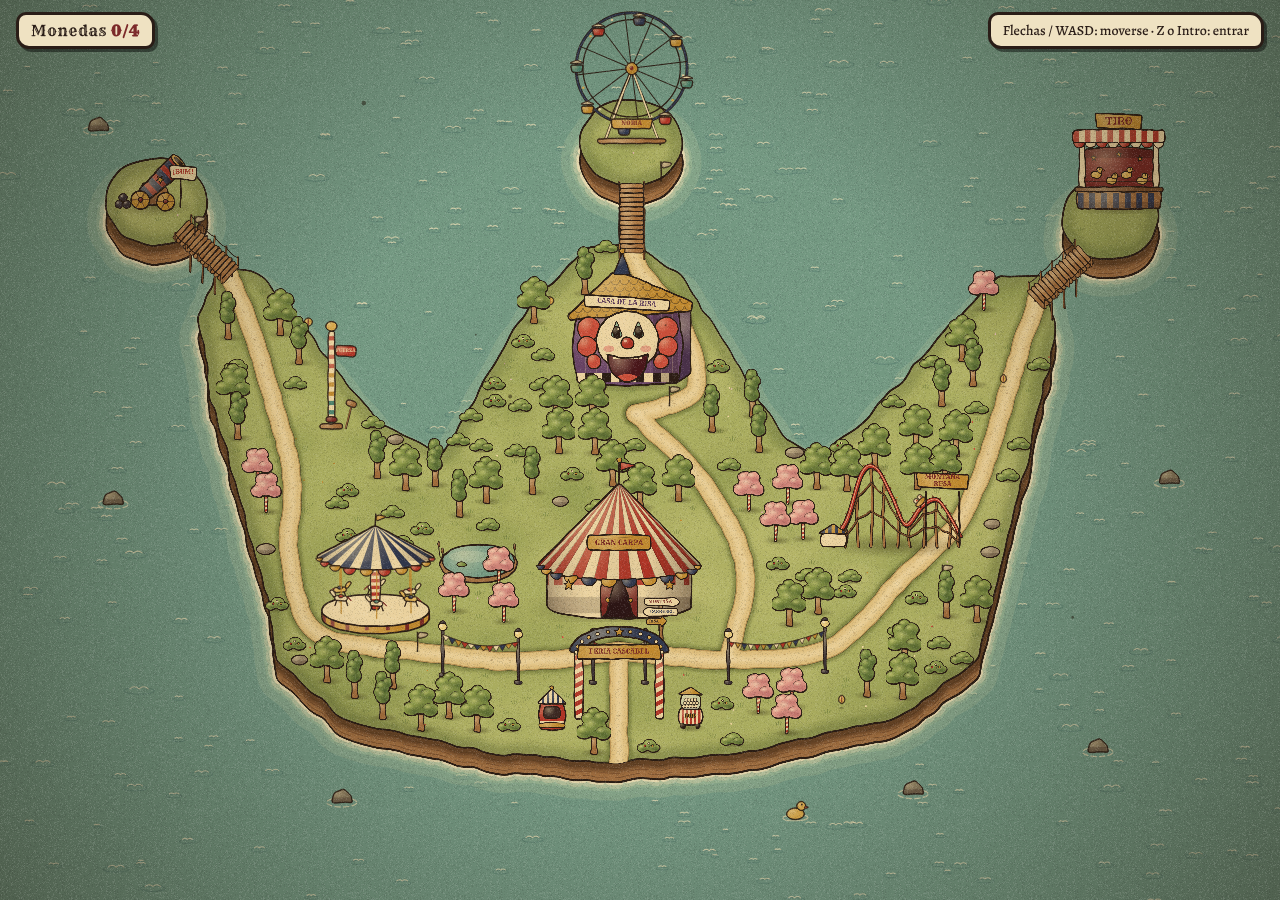
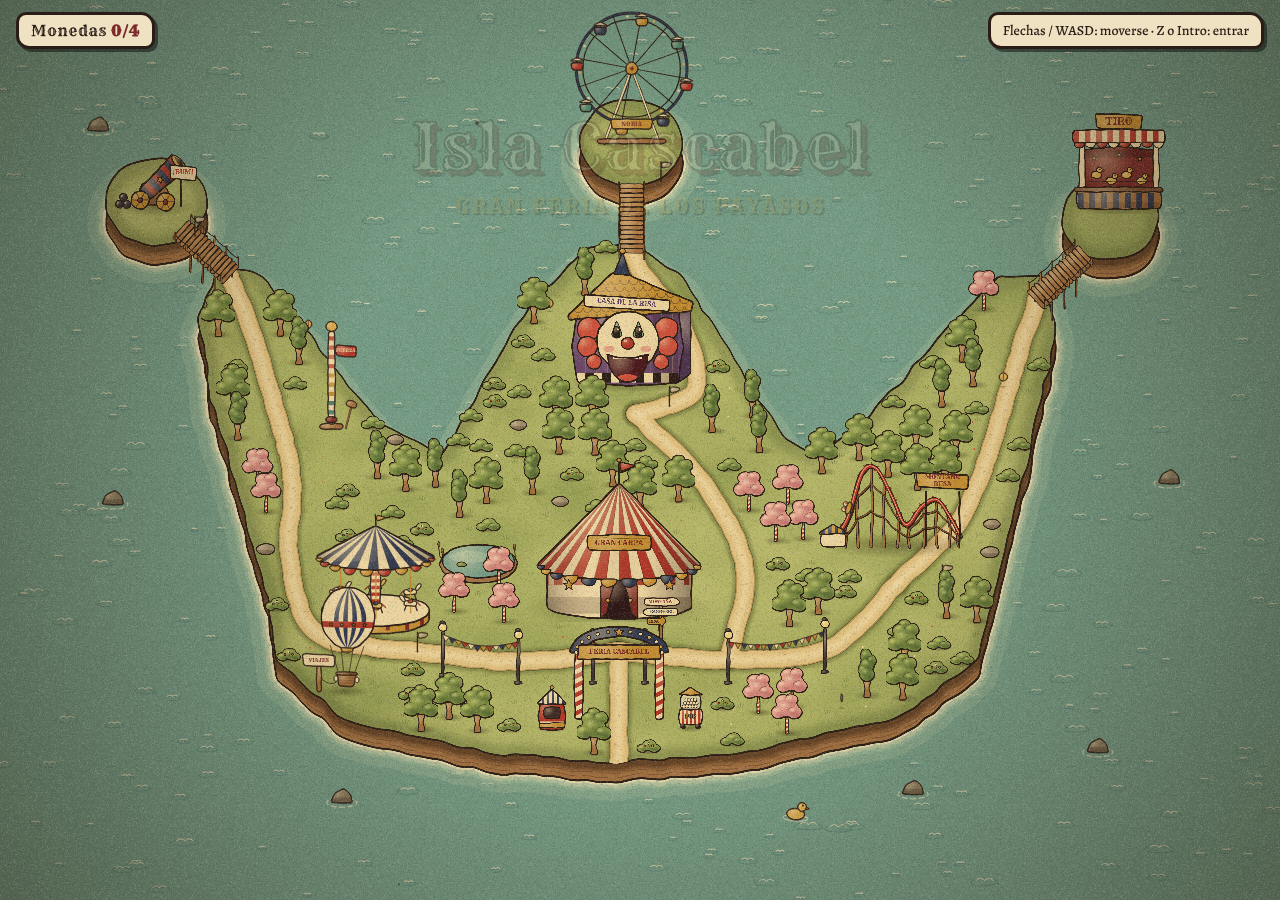
Añadir globo de viajes con selector de mundos y propuesta de mundos y jefes
El globo de la costa suroeste abre un selector con cuatro mundos (feria,
fantasía, siniestro y malvado); los no construidos aparecen cerrados hasta
vencer al jefe del mundo anterior. El documento de diseño recoge la
propuesta de mundos con jefes originales.

Claude-Session: https://claude.ai/code/session_01G1jNJfnqQXrcncKNXHh4Q9

diff --git a/mapa-feria/index.html b/mapa-feria/index.html
@@ -29,6 +29,7 @@ html,body{height:100%;margin:0;overflow:hidden;background:var(--ink);color:var(-
 #banner .b2{font-family:var(--display);font-size:clamp(14px,2.6vw,20px);color:var(--gold);text-shadow:2px 2px 0 var(--ink);letter-spacing:.12em;text-transform:uppercase;margin-top:6px}
 .overlay{position:fixed;inset:0;display:grid;place-items:center;padding-inline:max(16px,env(safe-area-inset-left,0px)) max(16px,env(safe-area-inset-right,0px))}
 .card{position:relative;width:min(440px,100%);background:var(--paper);color:var(--ink);border:4px solid var(--ink);border-radius:18px 12px 20px 14px;padding:22px 24px 20px;box-shadow:8px 8px 0 rgba(0,0,0,.55);text-align:center;animation:cardIn .45s cubic-bezier(.2,1.6,.4,1) both;background-image:radial-gradient(rgba(120,80,30,.12) 1px,transparent 1.4px);background-size:5px 5px}
+.overlay .card{max-height:calc(100% - 32px);overflow:auto}
 .card::before{content:"";position:absolute;inset:7px;border:2px solid var(--ink);border-radius:12px 8px 14px 10px;pointer-events:none}
 @keyframes cardIn{from{transform:scale(.4) rotate(-8deg);opacity:0}to{transform:none;opacity:1}}
 .kind{display:inline-block;font-family:var(--display);font-size:13px;letter-spacing:.18em;text-transform:uppercase;background:var(--wine);color:var(--paper);padding:4px 14px;border:2px solid var(--ink);border-radius:4px;transform:rotate(-2deg)}
@@ -45,6 +46,15 @@ html,body{height:100%;margin:0;overflow:hidden;background:var(--ink);color:var(-
 #dialog .more{text-align:right;font-family:var(--display);font-size:13px;opacity:.7}
 #stage{background:#000}
 #stage .card{max-width:420px}
+.wlist{list-style:none;margin:14px 0 0;padding:0;display:grid;gap:8px;text-align:left}
+.wbtn{width:100%;display:grid;grid-template-columns:1fr auto;gap:2px 10px;align-items:center;background:var(--paper);color:var(--ink);border:3px solid var(--ink);border-radius:10px 7px 11px 8px;padding:8px 12px;font-family:var(--body);font-size:15px;text-align:left;cursor:pointer;box-shadow:3px 3px 0 var(--ink)}
+.wbtn .wn{font-family:var(--display);font-size:18px;color:var(--navy)}
+.wbtn .wd{grid-column:1/-1;line-height:1.3}
+.wbtn .ws{font-family:var(--display);font-size:11px;letter-spacing:.12em;text-transform:uppercase;padding:3px 8px;border:2px solid var(--ink);border-radius:4px;background:var(--paper-dark)}
+.wbtn.here .ws{background:var(--gold)}
+.wbtn.locked{opacity:.78}
+.wbtn.sel,.wbtn:hover{background:#f6e9c6;outline:3px dashed var(--wine);outline-offset:2px}
+.wmsg{min-height:1.4em;font-style:italic;color:var(--wine)}
 .touch{position:fixed;bottom:calc(env(safe-area-inset-bottom,0px) + 18px);display:none;pointer-events:auto}
 @media (pointer:coarse){.touch{display:block}.help{display:none}}
 #stick{left:max(18px,env(safe-area-inset-left,0px));width:120px;height:120px;border-radius:50%;border:3px solid rgba(239,226,194,.7);background:rgba(42,29,23,.25)}
@@ -82,6 +92,17 @@ html,body{height:100%;margin:0;overflow:hidden;background:var(--ink);color:var(-
     <h2 id="sTitle">Nivel</h2>
     <p>Este nivel aún se está montando. Aquí empezará la fase de juego.</p>
     <div class="btns"><button class="btn sel" id="bStage" type="button">Volver al mapa</button></div>
+  </div>
+</div>
+
+<div id="worlds" class="overlay" hidden>
+  <div class="card" role="dialog" aria-modal="true" aria-labelledby="wTitle">
+    <span class="kind">Globo de viajes</span>
+    <h2 id="wTitle">¿A qué mundo vamos?</h2>
+    <ul id="wList" class="wlist"></ul>
+    <p id="wMsg" class="wmsg"></p>
+    <div class="btns"><button class="btn" id="bWClose" type="button">Quedarse aquí</button></div>
+    <div class="keyhint">↑ ↓ elegir · Z / Intro: viajar · X / Esc: cerrar</div>
   </div>
 </div>
 
@@ -584,6 +605,33 @@ function drawDuck(ctx,t,x,y){
   ctx.restore();
 }
 
+/* globo aerostático: punto de viaje entre mundos */
+function drawBalloon(ctx,t){
+  const bob=Math.sin(t*1.4)*5,sway=Math.sin(t*.9)*.04;
+  shadowB(ctx,0,0,58,14);
+  // poste de amarre y cartel
+  fig(ctx,rectP(-70,-62,-60,0),{fill:C.wood,lw:2.6});
+  fig(ctx,[[-104,-90],[-26,-86],[-28,-58],[-102,-62]],{fill:C.cream,lw:2.8});label(ctx,'VIAJES',-65,-74,13,C.wine);
+  ctx.strokeStyle=C.ink;ctx.lineWidth=1.8;ctx.beginPath();ctx.moveTo(-60,-30);ctx.quadraticCurveTo(-34,-10+bob*.5,-18,-30+bob);ctx.stroke();
+  ctx.save();ctx.translate(0,bob);ctx.rotate(sway);
+  // cuerdas
+  [[-18,-44,-40,-112],[18,-44,40,-112],[-6,-44,-14,-104],[6,-44,14,-104]].forEach(([a,b,c,d])=>{ctx.lineWidth=1.6;ctx.strokeStyle=C.ink;ctx.beginPath();ctx.moveTo(a,b);ctx.lineTo(c,d);ctx.stroke()});
+  // cesta de mimbre
+  fig(ctx,[[-22,-46],[22,-46],[18,-16],[-18,-16]],{fill:C.wood,lw:2.8,amt:.6},()=>{ctx.strokeStyle='rgba(70,40,20,.55)';ctx.lineWidth=1.4;for(let y=-42;y<-16;y+=6){ctx.beginPath();ctx.moveTo(-24,y);ctx.lineTo(24,y);ctx.stroke()}});
+  fig(ctx,rectP(-25,-50,25,-43),{fill:C.woodD,lw:2.4,amt:.5});
+  // sacos de lastre
+  oval(ctx,-25,-34,5,7,C.cream,{lw:2,amt:.3});oval(ctx,25,-32,5,7,C.cream,{lw:2,amt:.3});
+  // globo a gajos
+  const env=[[0,-102],[-30,-116],[-58,-150],[-62,-196],[-40,-238],[0,-252],[40,-238],[62,-196],[58,-150],[30,-116]];
+  fig(ctx,catmull(env.concat([env[0]]),5),{fill:C.cream,lw:3.4,amt:.7},()=>{
+    for(let i=-3;i<=3;i+=2){ctx.fillStyle=C.navy;ctx.beginPath();ctx.moveTo(0,-104);ctx.quadraticCurveTo(i*22,-170,0,-254);ctx.quadraticCurveTo((i+1)*22,-170,0,-104);ctx.fill()}
+    ctx.fillStyle=C.red;ctx.fillRect(-70,-170,140,14);
+    [-40,-14,14,40].forEach(x=>star(ctx,x,-163,5,C.goldL));
+  });
+  fig(ctx,[[-16,-108],[16,-108],[12,-98],[-12,-98]],{fill:C.gold,lw:2.4,amt:.4});
+  ctx.restore();
+}
+
 /* ---------- marcador provisional del jugador (sustituible por el sprite definitivo) ---------- */
 function drawPlayerToken(ctx,t,pl){
   const bob=pl.moving?-Math.abs(Math.sin(pl.phase))*5:Math.sin(t*2.5)*1.5;
@@ -670,6 +718,8 @@ function buildWorld(){
     'Tartas granada: crema por fuera y metralla por dentro.',
     'Sifones de ácido: un chorro que lo derrite todo.',
     state.coins<4?`Llevas ${state.coins} de 4 monedas. Hay más escondidas por la isla.`:'¡Cuatro monedas! Ya puedes comprar tu primera arma.']});
+  liveObj(650,1495,drawBalloon,[-110,-270,70,16],{dy:-8,rx:40,ry:14});
+  interactables.push({x:650,y:1530,r:58,type:'travel',h:110});
   interactables.push({x:1400,y:1392,r:46,type:'talk',who:'Poste indicador',h:40,lines:()=>['Arriba: Casa de la Risa y la Noria. Izquierda: Carrusel y Cañón. Derecha: Montaña Rusa y la caseta de tiro.']});
   interactables.push({x:600,y:915,r:58,type:'striker',who:'Martillo de fuerza',h:70});
   interactables.push({x:1140,y:1610,r:46,type:'talk',who:'Taquilla',h:40,lines:()=>['Bienvenido a la Isla Cascabel.','Cada atracción es un nivel. La Gran Carpa guarda al jefe final.']});
@@ -915,6 +965,37 @@ function postFX(){
     ctx.fillStyle='#000';ctx.beginPath();ctx.rect(0,0,cw,ch);ctx.arc(px,py,Math.max(0,iris.r),0,Math.PI*2,true);ctx.fill('evenodd')}
 }
 
+/* ---------- mundos ---------- */
+const WORLDS=[
+  {id:'feria',n:'Isla Cascabel',tipo:'Feria',d:'Atracciones, payasos y la Gran Carpa.',open:true},
+  {id:'fantasia',n:'Valle Encantado',tipo:'Fantasía',d:'Setas gigantes, hadas y un castillo que flota sobre las nubes.'},
+  {id:'pantano',n:'Pantano Lúgubre',tipo:'Siniestro',d:'Niebla, juguetes rotos y marionetas que ya no tienen dueño.'},
+  {id:'infierno',n:'Ciudadela Infernal',tipo:'Malvado',d:'Calderas, ríos de lava y los jefes más crueles.'}
+];
+let wSel=0;
+function openWorlds(){
+  mode='worlds';wSel=0;$('wMsg').textContent='';
+  const ul=$('wList');ul.textContent='';
+  WORLDS.forEach((w,i)=>{
+    const li=document.createElement('li'),b=document.createElement('button');
+    b.type='button';b.className='wbtn'+(i===0?' here':'')+(w.open?'':' locked');
+    const n=document.createElement('span');n.className='wn';n.textContent=`${i+1}. ${w.n}`;
+    const st=document.createElement('span');st.className='ws';st.textContent=i===0?'Estás aquí':w.open?w.tipo:'Cerrado';
+    const d=document.createElement('span');d.className='wd';d.textContent=`${w.tipo}. ${w.d}`;
+    b.append(n,st,d);b.onclick=e=>{e.stopPropagation();wSel=i;pickWorld()};
+    b.onmouseenter=()=>{wSel=i;markWorld()};
+    li.append(b);ul.append(li);
+  });
+  markWorld();$('worlds').hidden=false;
+}
+function markWorld(){[...document.querySelectorAll('.wbtn')].forEach((b,i)=>b.classList.toggle('sel',i===wSel))}
+function pickWorld(){
+  const w=WORLDS[wSel];
+  $('wMsg').textContent=wSel===0?'Ya estás en la Isla Cascabel.':`Ruta cerrada: vence al jefe de ${WORLDS[wSel-1].n} para viajar a ${w.n}.`;
+}
+function closeWorlds(){$('worlds').hidden=true;mode='map'}
+document.getElementById('bWClose').onclick=e=>{e.stopPropagation();closeWorlds()};
+
 /* ---------- UI: tarjeta de nivel, diálogos, escenario ---------- */
 const $=id=>document.getElementById(id);
 function openCard(id){
@@ -948,15 +1029,18 @@ function action(){
     if(current.type==='level')openCard(current.id);
     else if(current.type==='talk')talk(current.who,current.lines());
     else if(current.type==='striker')hitStriker();
+    else if(current.type==='travel')openWorlds();
   } else if(mode==='card')goLevel();
   else if(mode==='dialog')advance();
   else if(mode==='stage')backFromStage();
+  else if(mode==='worlds')pickWorld();
 }
-function back(){if(mode==='card')closeCard();else if(mode==='dialog')advance();else if(mode==='stage')backFromStage()}
+function back(){if(mode==='worlds')closeWorlds();else if(mode==='card')closeCard();else if(mode==='dialog')advance();else if(mode==='stage')backFromStage()}
 addEventListener('keydown',e=>{
   if(['ArrowUp','ArrowDown','ArrowLeft','ArrowRight','Space'].includes(e.code))e.preventDefault();
   if(e.repeat){keys[e.code]=true;return}
   keys[e.code]=true;
+  if(mode==='worlds'&&(e.code==='ArrowUp'||e.code==='ArrowDown'||e.code==='KeyW'||e.code==='KeyS')){wSel=(wSel+(e.code==='ArrowUp'||e.code==='KeyW'?WORLDS.length-1:1))%WORLDS.length;markWorld();return}
   if(e.code==='KeyZ'||e.code==='Enter'||e.code==='Space'){e.preventDefault();action()}
   if(e.code==='KeyX'||e.code==='Escape')back();
 });

diff --git a/docs/historia-y-armas.md b/docs/historia-y-armas.md
@@ -29,3 +29,23 @@ La introducción se presentará como una secuencia de viñetas de cómic antes d
 | Sifones de ácido | Sifones cargados con ácido. |
 
 En el mapa, las armas se venden en la Caseta de tiro (islote de la derecha).
+
+## Mundos
+La idea es que haya varios mundos de estilos distintos y que se pueda viajar entre ellos.
+En el mapa, el **globo de viajes** (costa suroeste de la Isla Cascabel) abre el selector de mundos.
+Los mundos que aún no existen aparecen como cerrados. Cada ruta se abre al vencer al jefe del mundo anterior.
+
+Los jefes son originales. La lista siguiente es una **propuesta** para que la revise el autor:
+
+| # | Mundo | Tipo | Ambiente | Jefes propuestos |
+|---|---|---|---|---|
+| 1 | Isla Cascabel | Feria | Atracciones, payasos y la Gran Carpa | El dueño de la carpa (por definir) |
+| 2 | Valle Encantado | Fantasía | Setas gigantes, hadas, castillo flotante | La Reina Tetera Hechicera · el Ogro Barón Mermelada · el Dragón de Papel Maché |
+| 3 | Pantano Lúgubre | Siniestro | Niebla, juguetes rotos, marionetas abandonadas | Madame Marioneta (sus hilos mueven el escenario) · Míster Muelle (caja sorpresa gigante) · el Barquero sin Sombra |
+| 4 | Ciudadela Infernal | Malvado | Calderas, ríos de lava, fábricas | El Capataz de Hierro · el Gran Jefe, el último y más cruel |
+
+Posible enlace con la historia: el jefe final podría ser el mismo "jefe" que los despidió al principio.
+
+### Pendiente de definir
+- Número final de mundos y su orden.
+- Si el viaje es siempre en globo o cambia según el mundo (barco, tren fantasma, cañón...).

diff --git a/README.md b/README.md
@@ -53,9 +53,12 @@ mapa de Cuphead. Abre `mapa-feria/index.html` en el navegador; no necesita servi
 | 5 | La Noria Lunar |
 | Jefe | ¡La Gran Función! (Gran Carpa) |
 
+Viajes: el globo de la costa suroeste abre el selector de mundos (Isla Cascabel, Valle Encantado,
+Pantano Lúgubre y Ciudadela Infernal; los tres últimos aún cerrados).
+
 Extras: 4 monedas escondidas, martillo de fuerza, taquilla, poste indicador y caseta de tiro (vende las armas).
 
-Historia y armas del juego: [`docs/historia-y-armas.md`](docs/historia-y-armas.md).
+Historia, armas y mundos del juego: [`docs/historia-y-armas.md`](docs/historia-y-armas.md).
 Controles: flechas/WASD para moverse; Z, Intro o Espacio para interactuar; X o Esc para volver;
 joystick táctil en móvil.
 
